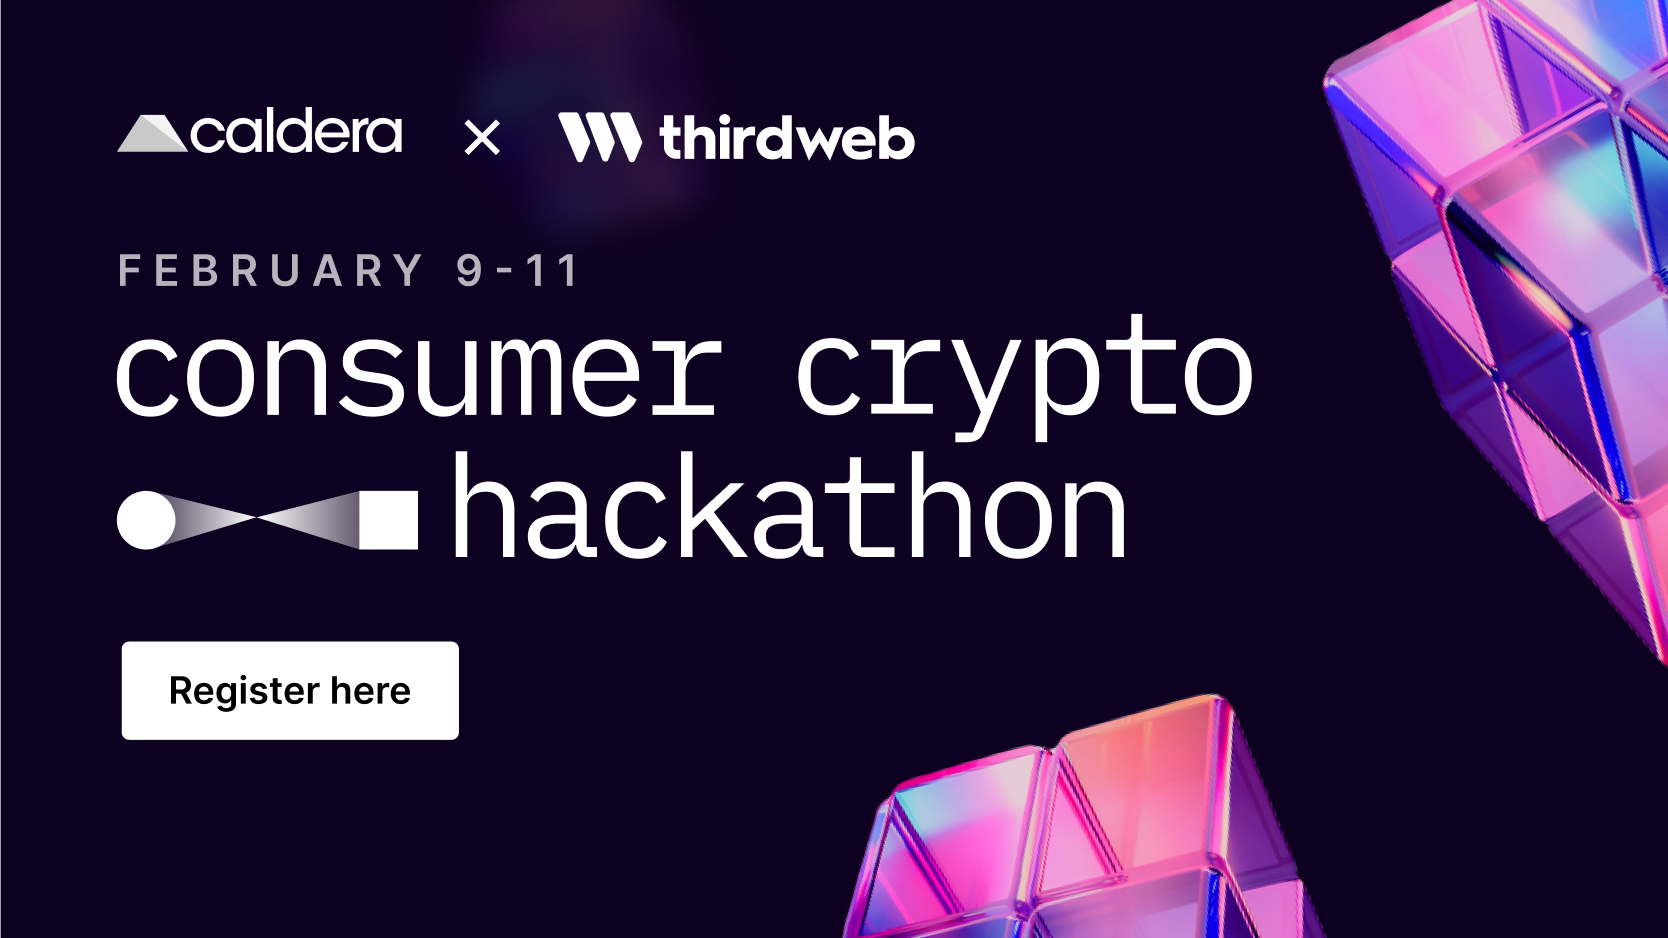
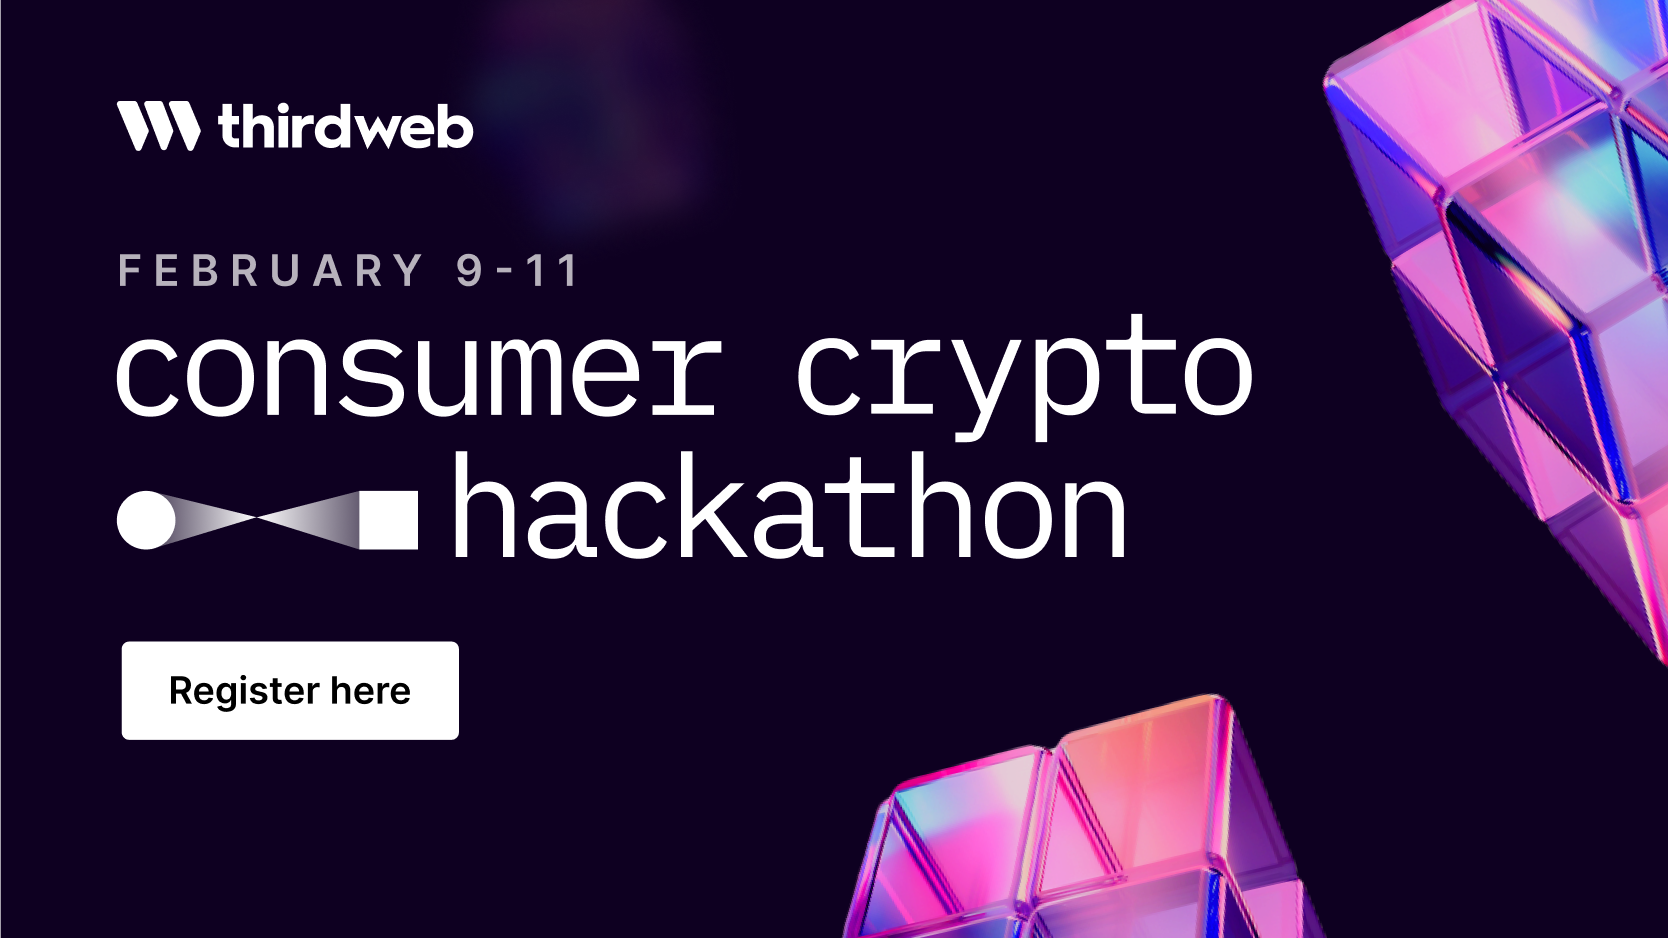
update og:image and top page image

Changed region(s): [[0.0624, 0.0928, 0.5612, 0.1855]]

diff --git a/pages/hackathon/caldera-consumer-crypto.tsx b/pages/hackathon/caldera-consumer-crypto.tsx
@@ -102,7 +102,7 @@ const Hackathon = () => {
             />
 
             <ChakraNextImage
-              src={require("public/assets/landingpage/calderaxtw.png")}
+              src={require("public/assets/landingpage/thirdwebw.svg")}
               alt="Hackathon"
               maxW={{ base: "full", md: "xl" }}
             />
